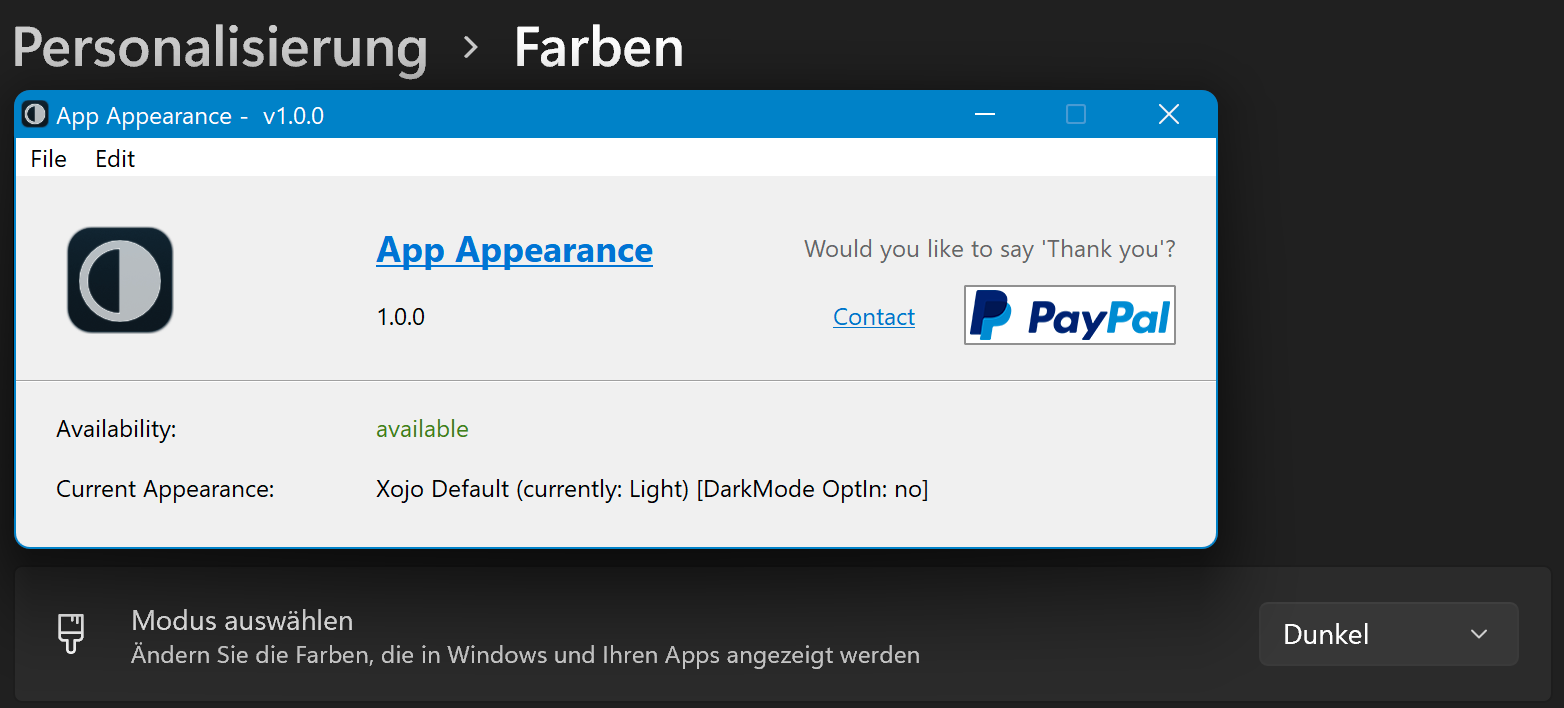
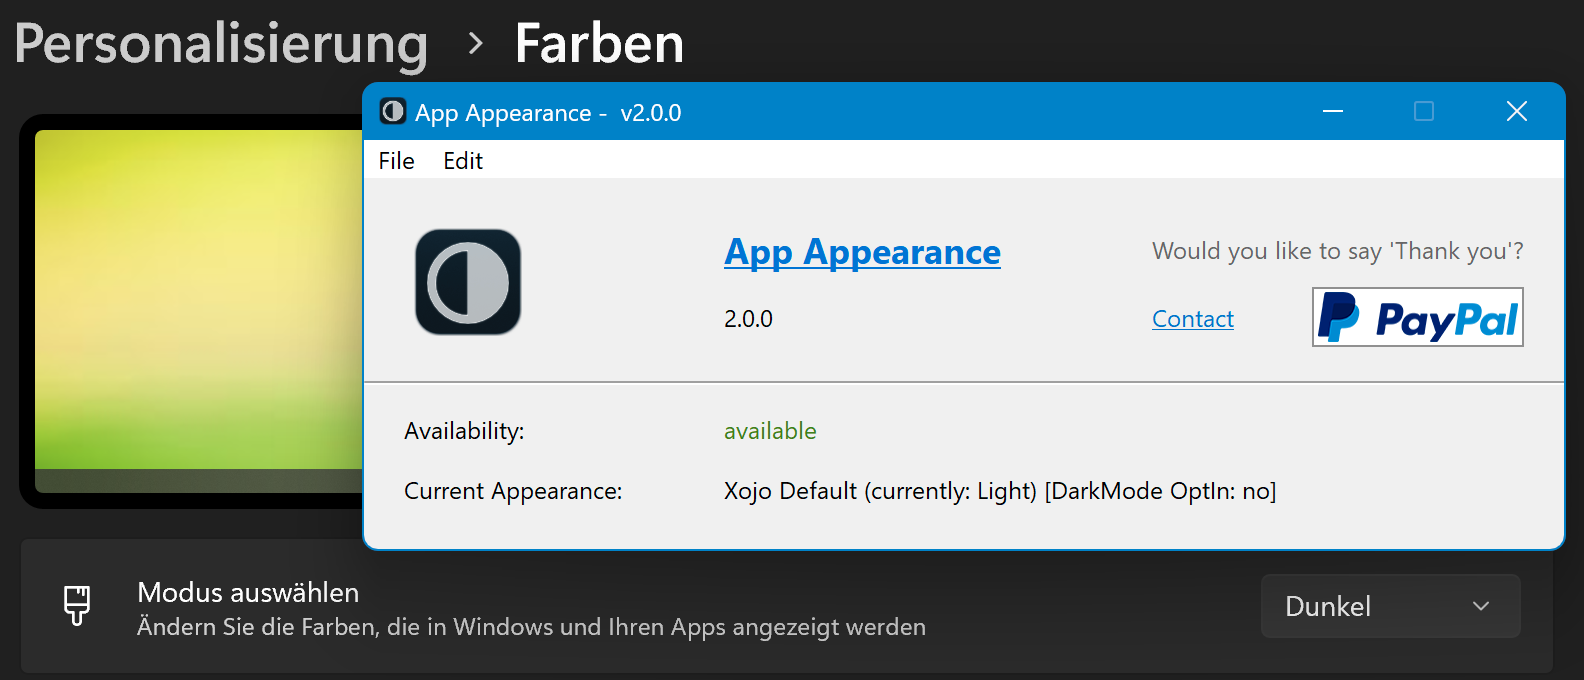
Update ReadMe and ScreenShots

diff --git a/README.md b/README.md
@@ -13,7 +13,7 @@ This example project shows how to override this, so that your application can pr
 ### Windows
 DarkMode on Windows is... not that good - at least not for Win32 Apps/Controls, which is what Xojo is currently using. For that reason it is best practice to explizitly allow the user to ```Opt-in``` for DarkMode support of your application. Many Windows users love to have their system setting to have dark appearance in apps, but might dislike that in Win32-apps.  
 Starting with Xojo 2021r3, Xojo supports DarkMode for ```TargetWindows```. This example project shows how to allow the users to ```Opt-in``` for DarkMode support, because Xojo by default always uses the system settings.  
-*Note: Unlike macOS, you can never have the application show in DarkMode on if Windows app appearance setting is 'Light Mode'.*
+*Note: Unlike macOS, you can never have the application show in DarkMode on Windows if 'app appearance setting' is 'Light Mode'.*
 
 ### ScreenShots
 macOS in DarkMode, but application in ```Always Light```  
@@ -34,8 +34,8 @@ Windows in DarkMode and user's app-preference: ```DarkMode Opt-in: yes```, so ap
 [Xojo](https://www.xojo.com/) is a rapid application development for Desktop, Web, Mobile & Raspberry Pi.  
 
 The Desktop application Xojo example project ```AppAppearance.xojo_project``` is using:
-- Xojo 2018r4
-- API 1
+- Xojo 2024r1.1
+- API 2
 
 *Note: You'll need to build with Xojo 2021r3 or later to get DarkMode Support on TargetWindows*
 
